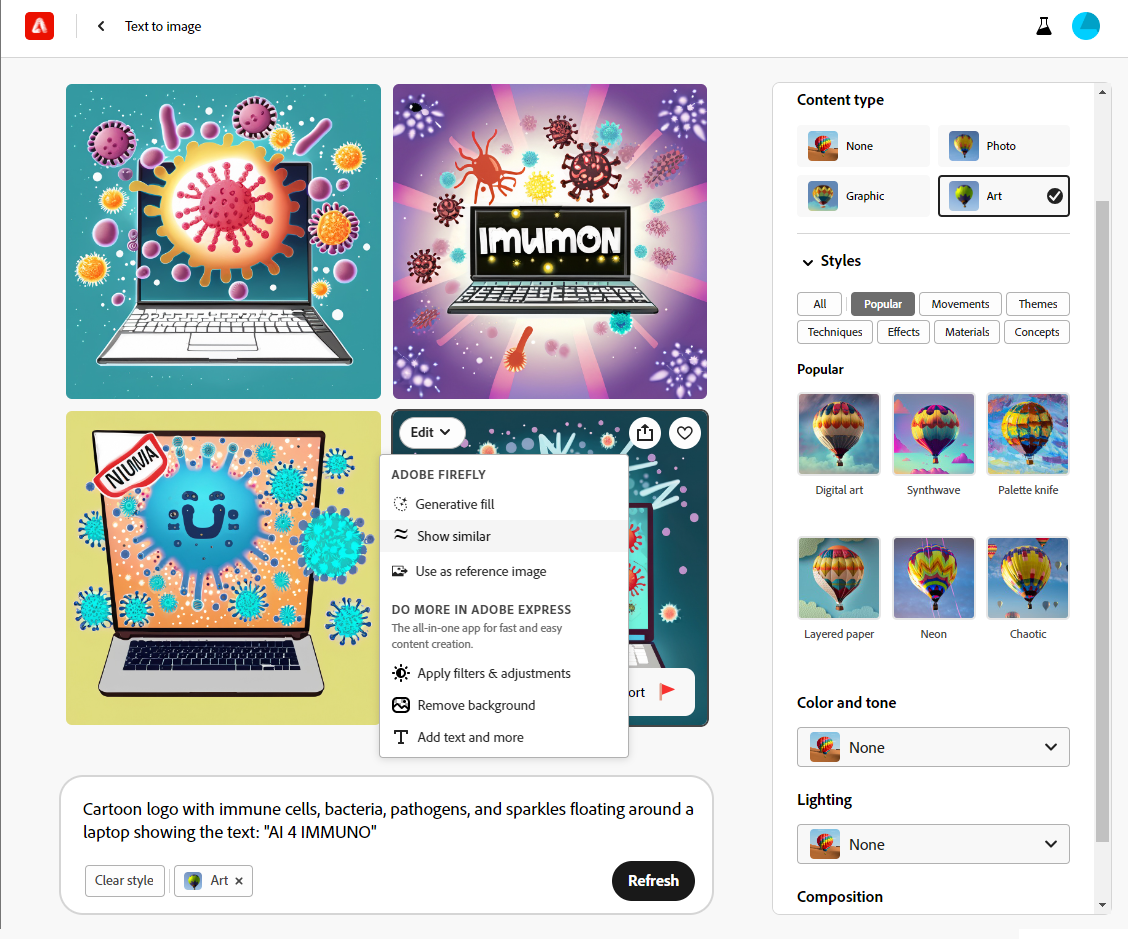
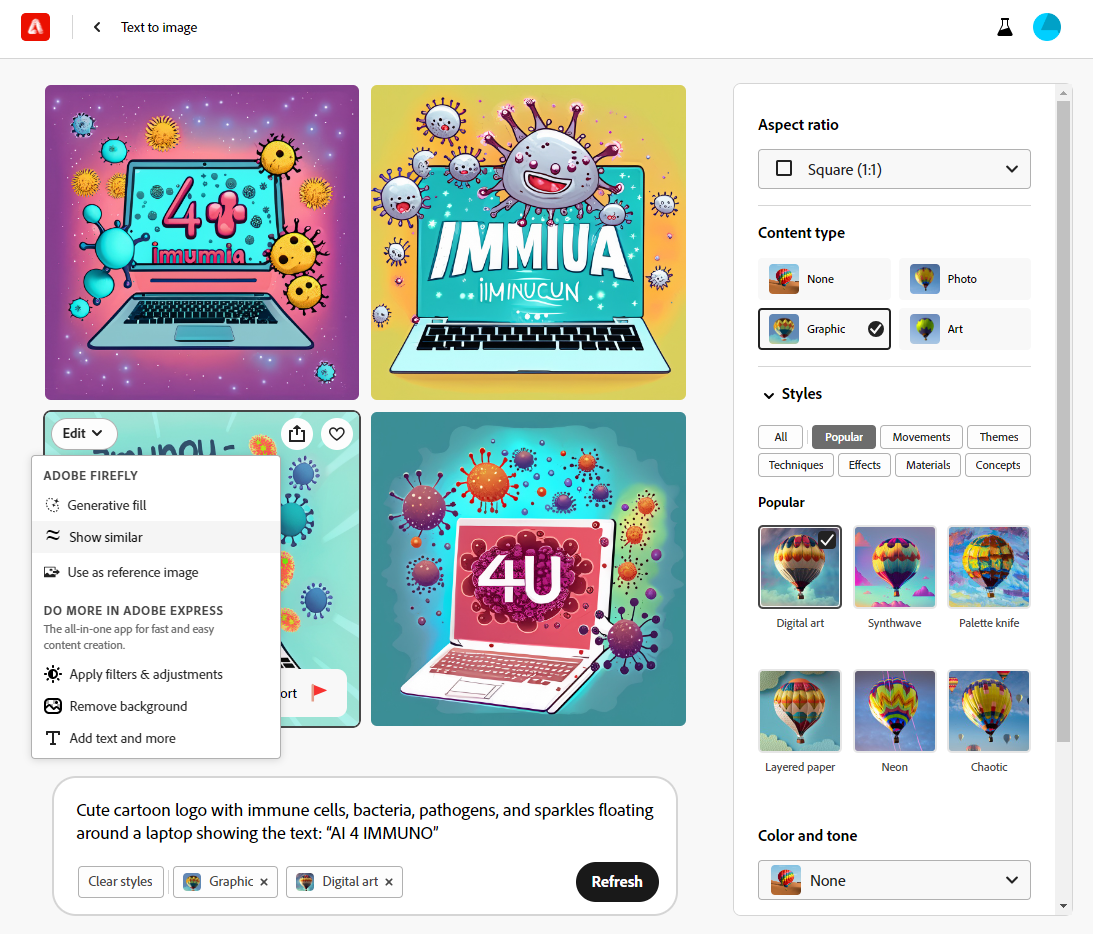
updated module09

diff --git a/lectures/module09.md b/lectures/module09.md
@@ -21,18 +21,18 @@ As enticing as it sounds to be able to generate dozens of "new" designs on the f
 ## Generative Art Tools
 Below are two browser-accessible generative art applications. Here, we showcase the output differences when given the same prompt: 
 
-> Cartoon logo with immune cells, bacteria, pathogens, and sparkles floating around a laptop showing the text: "AI 4 IMMUNO"
+> Cute cartoon logo with immune cells, bacteria, pathogens, and sparkles floating around a laptop showing the text: “AI 4 IMMUNO”
 
-* DALL-E via Bing Create, bing.com/images/create
-This option is currently free to use and appears to have a token limit, which "boosts" the speed of image generation for each query. 
+### *DALL-E via Bing Create, [bing.com/images/create](bing.com/images/create)
+<br>This option is currently free to use and appears to have a token limit, which "boosts" the speed of image generation for each query.
 
 ![Bing Create DALL-E Interface](/assets/images/09-bing-dalle-interface-01.png)
 
 ![Bing Create Result](/assets/images/09-bing-dalle-logo.png)
 
 
-* Adobe Firefly, firefly.adobe.com/
-This option requires having a subscription to Adobe Creative Cloud. 
+### Adobe Firefly, [firefly.adobe.com/](firefly.adobe.com/)
+<br>This option requires having a subscription to Adobe Creative Cloud. 
 
 ![Adobe Firefly Interface](/assets/images/09-adobe-firefly-interface-01.png)
 
@@ -41,12 +41,12 @@ This option requires having a subscription to Adobe Creative Cloud.
 ![Adobe Firefly Interface](/assets/images/09-adobe-firefly-output.png)
 
 
-* Over 150 Generative Art Tools
-The OpenTools website has curated a [list of over 150 generative art tools](https://opentools.ai/category/generative-art) which are currently available. Each may have different pricing models or availability. 
+## Over 150 Generative Art Tools
+<br>The OpenTools website has curated a [list of over 150 generative art tools](https://opentools.ai/category/generative-art) which are currently available. Each may have different pricing models or availability. 
 
 
-## Famous AI Artists
-Countless artists have been creating generative AI art for years before the release of widely available software to the public. Artworks made with AI have reached one of the highest levels of exhibition in the art world, New York's Museum of Modern Art.
+## AI Artists and Creators
+<br>Countless artists have been creating generative AI art for years before the release of widely available software to the public. Artworks made with AI have reached one of the highest levels of exhibition in the art world, New York's Museum of Modern Art.
 
 * Refik Adnadol
 * Memo Akten

diff --git a/lectures/module03.md b/lectures/module03.md
@@ -18,20 +18,20 @@ Module 3 overview
 ## Recommended Tools for Academic Researchers
 We have provided a brief list of the most relevant AI tools for the academic community. Please submit any new suggestions!
 
-* ChatBots
+* **ChatBots**
     * OpenAI ChatGPT
     * Google's Bard
     * Microsoft Bing Chat
     * Elicit - “AI research assistant” that you can have “intelligent conversations” and brainstorming with
         * Apparently it has a very knowledgeable and verified source
-        * The software can also find relevant papers without perfect keyword matches, summarise them and extract key information.
+        * The software can also find relevant papers without perfect keyword matches, summarize them, and extract key information.
     * ChatPDF - Upload paper PDFs, get short summary of paper, get examples of questions that could be answered on the full article, start asking it questions
-* Literature Review
+* **Literature Review**
     * Scite.AI Assistant - Helps you find, read, and understand scientific literature
     * SciSpace - Supposedly helps you with manuscript submission, peer-review, and publication process
     * Research Rabbit - FREE site that “fast-tracks” your literature reviews; called the “Spotify of research” which allow users to add papers to “collections” so the recommender system can learn the user’s interests 
         * Also has a feature for graph/network visualizations of papers and co-authors
-* Academic Community Consensus
+* **Academic Community Consensus**
     * Consensus - “If ChatGPT and Google Scholar got married, their child would be Consensus”
     Consensus looks like most search engines but what sets it apart is that you ask Yes/No questions, to which it provides answers with the consensus of the academic community.
 

diff --git a/lectures/module02.md b/lectures/module02.md
@@ -13,5 +13,7 @@ nav_order: 2
 {:toc}
 
 ## Overview
-Module 2 overview
-TODO need to provide brief description of AI tools
+
+
+## New AI Tools Released Daily
+Cite statistics here

diff --git a/lectures/module07.md b/lectures/module07.md
@@ -13,4 +13,8 @@ nav_order: 7
 {:toc}
 
 ## Overview
-Module 7 overview
+
+
+## Cleaning Data
+
+## Visualizing Data
